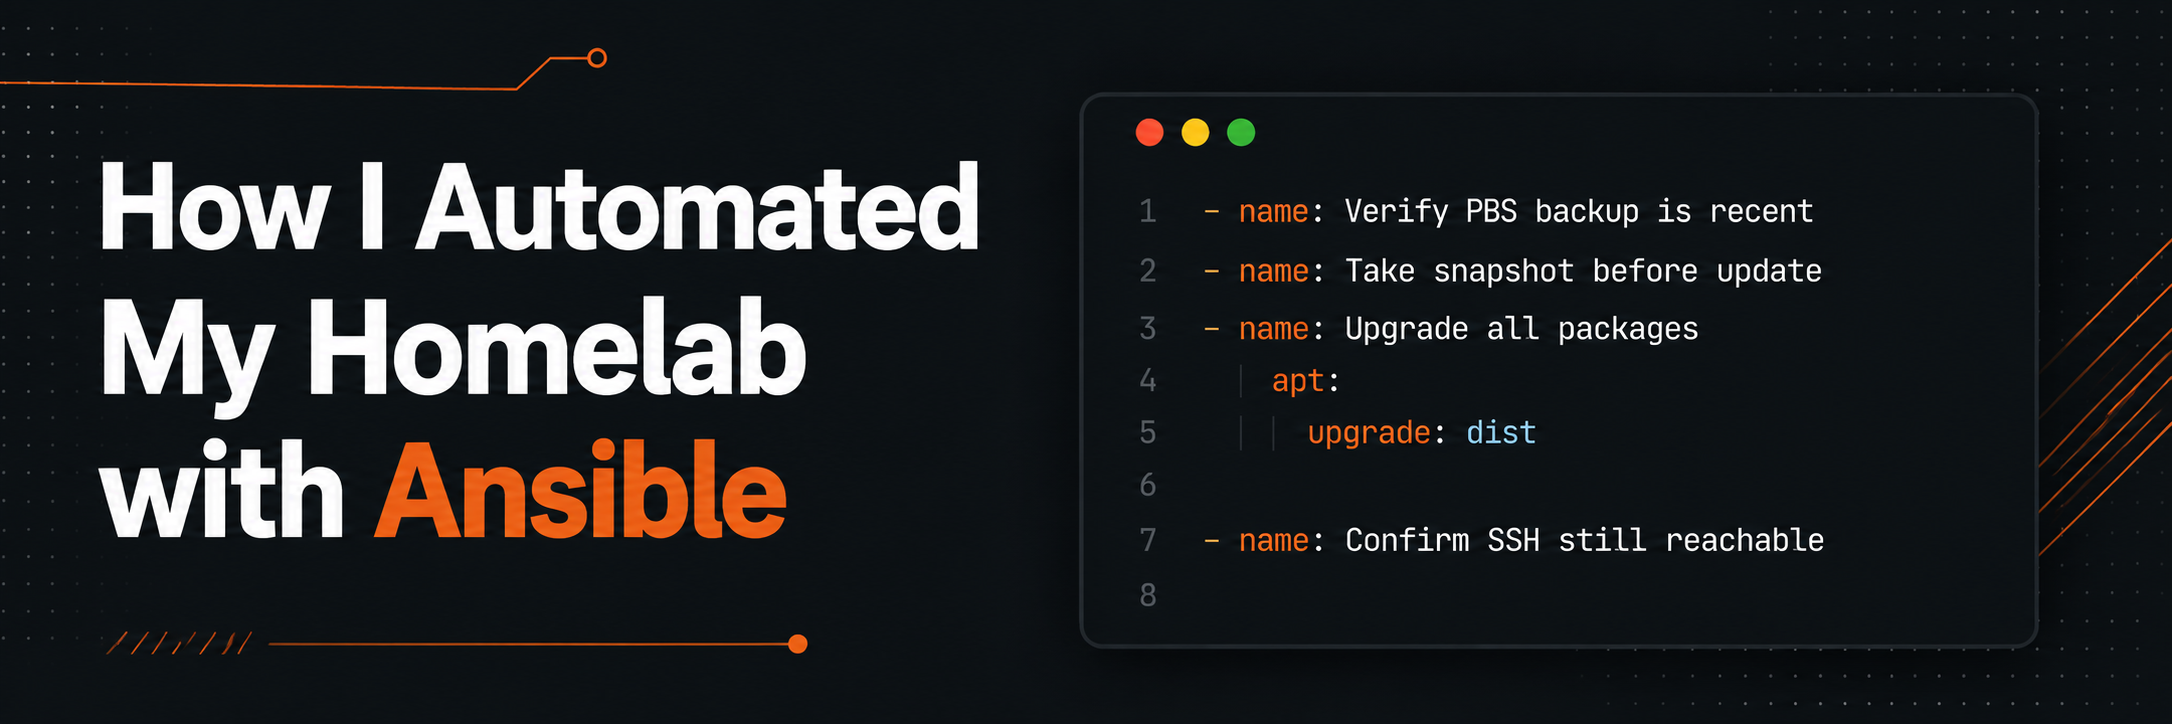
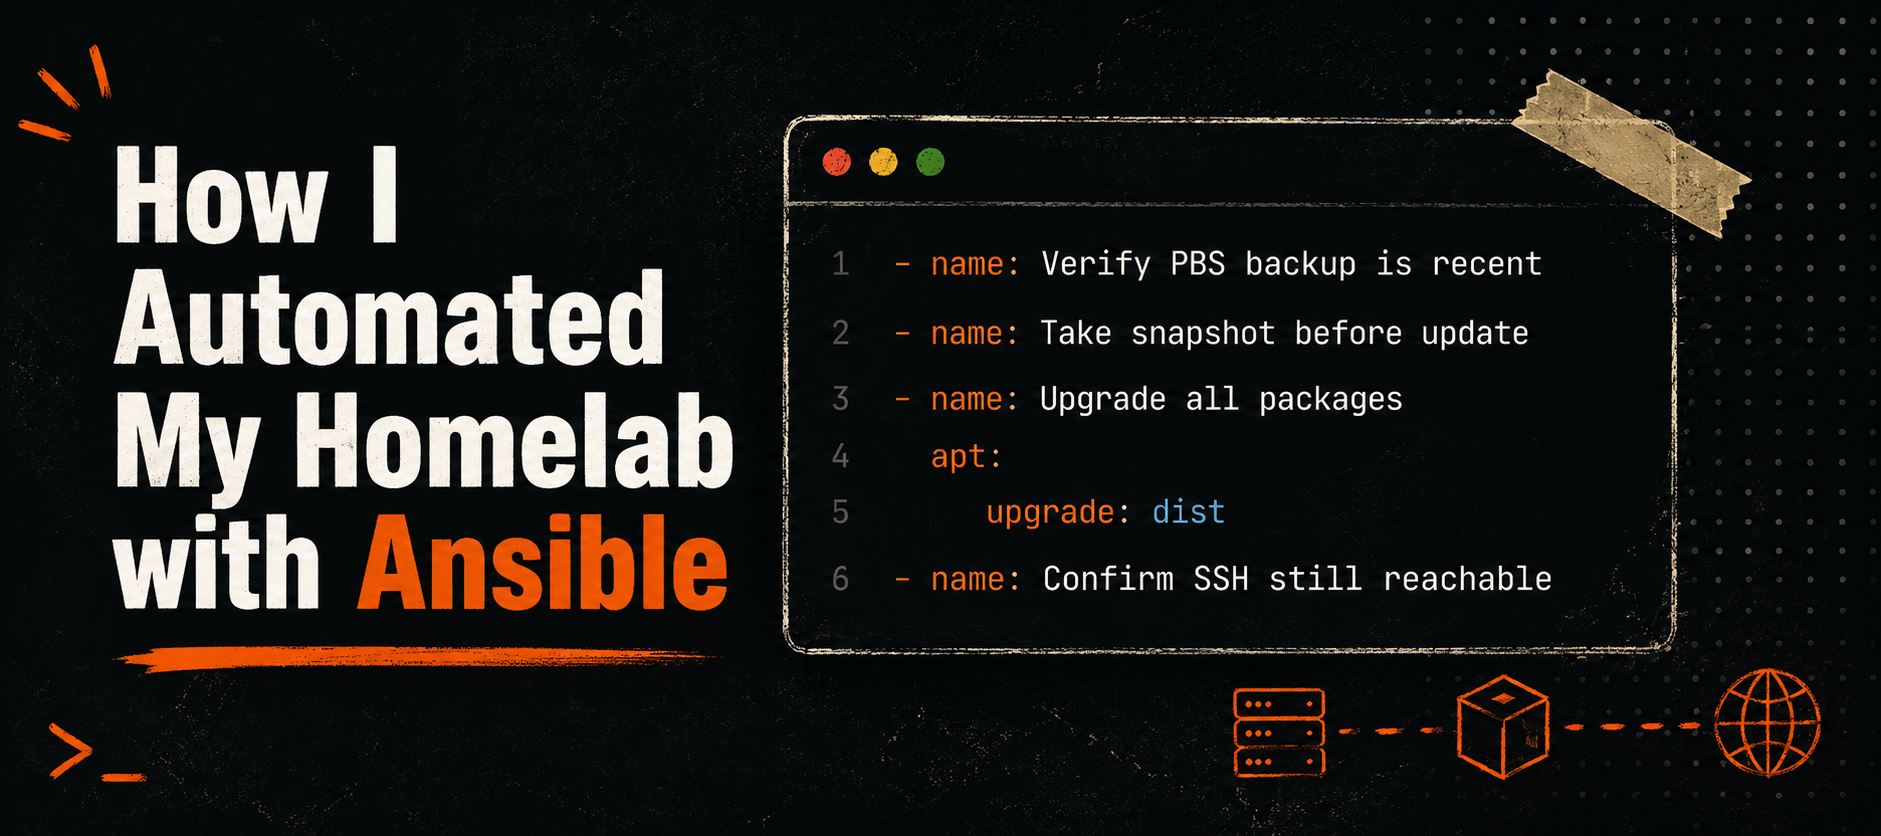
more image work

diff --git a/_posts/2026-06-15-how-i-automated-my-homelab-with-ansible.md b/_posts/2026-06-15-how-i-automated-my-homelab-with-ansible.md
@@ -4,10 +4,9 @@ date: 2026-06-15
 categories: [Homelab, Automation]
 tags: [ansible, homelab, proxmox, infrastructure-as-code]
 description: "Turning a manually managed Proxmox homelab into reproducible infrastructure."
-image:
-  path: /assets/img/posts/ansible-homelab.png
-  alt: How I Automated My Homelab with Ansible
 ---
+
+<img class="post-brand-banner" src="{{ '/assets/img/ansible-homelab.jpg' | relative_url }}" alt="How I Automated My Homelab with Ansible">
 
 Like many homelabs, mine grew organically. Jellyfin became Immich, then AdGuard Home, then a second bare-metal AdGuard Home on a Raspberry Pi so DNS survives a Proxmox outage (overtinker much?). I even built an n8n workflow that scrapes my kids' awful school lunch website and automatically prints the lunch menu every month.
 